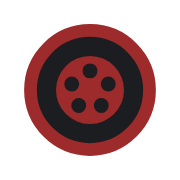
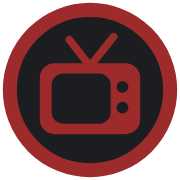
Publish 17f76a5

diff --git a/index.html b/index.html
@@ -5,20 +5,20 @@
 <meta name="viewport" content="width=device-width, initial-scale=1">
 <title>7TV Casting Office</title>
 <meta name="description" content="Design custom 7TV 2nd Edition profile cards: Stars, Co-Stars, Extras and vehicles, with Core or 80s genres.">
-<link rel="icon" type="image/png" sizes="32x32" href="assets/favicon-32.png?v=2">
-<link rel="icon" type="image/png" sizes="192x192" href="assets/favicon-192.png?v=2">
-<link rel="icon" type="image/svg+xml" href="assets/favicon.svg?v=2">
-<link rel="apple-touch-icon" href="assets/apple-touch-icon.png?v=2">
+<link rel="icon" type="image/png" sizes="32x32" href="assets/favicon-32.png?v=3">
+<link rel="icon" type="image/png" sizes="192x192" href="assets/favicon-192.png?v=3">
+<link rel="icon" type="image/svg+xml" href="assets/favicon.svg?v=3">
+<link rel="apple-touch-icon" href="assets/apple-touch-icon.png?v=3">
 <meta name="apple-mobile-web-app-title" content="Casting Office">
 <meta name="theme-color" content="#9e2b2b">
-<link rel="stylesheet" href="css/fonts.css?v=202610270420">
-<link rel="stylesheet" href="css/styles.css?v=202610270420">
+<link rel="stylesheet" href="css/fonts.css?v=202610292237">
+<link rel="stylesheet" href="css/styles.css?v=202610292237">
 <script>try { document.documentElement.dataset.theme = localStorage.getItem('seventv-theme') === 'dark' ? 'dark' : 'light'; } catch (e) { document.documentElement.dataset.theme = 'light'; }</script>
 </head>
 <body>
 <header class="topbar">
   <div class="brand">
-    <span class="brand-mark" aria-hidden="true"></span>
+    <svg class="brand-mark" viewBox="0 0 64 64" aria-hidden="true"><circle cx="32" cy="32" r="28.5" class="bm-disc"/><g transform="translate(32 33) scale(1.05)"><path d="M-7-18 0-9 8-19" class="bm-ant"/><rect x="-17" y="-10" width="34" height="24" rx="5" class="bm-tv"/><rect x="-13" y="-6.5" width="20" height="17" rx="4" class="bm-scr"/><circle cx="11" cy="-2" r="2" class="bm-scr"/><circle cx="11" cy="5" r="2" class="bm-scr"/></g></svg>
     <div>
       <h1>Casting Office</h1>
       <p>Profile cards for 7TV 2nd Edition</p>
@@ -686,28 +686,28 @@
 
 <div id="toast" class="toast" role="status" aria-live="polite"></div>
 
-<script src="js/vendor/jspdf.umd.min.js?v=202610270420"></script>
-<script src="js/data/rules.js?v=202610270420"></script>
-<script src="js/data/profiles.js?v=202610270420"></script>
-<script src="js/data/profiles-stubs.js?v=202610270420"></script>
-<script src="js/data/special-effects.js?v=202610270420"></script>
-<script src="js/data/units.js?v=202610270420"></script>
-<script src="js/data/genres-info.js?v=202610270420"></script>
-<script src="js/data/movies.js?v=202610270420"></script>
-<script src="js/data/book-index.js?v=202610270420"></script>
-<script src="js/data/episodes.js?v=202610270420"></script>
-<script src="js/data/roles.js?v=202610270420"></script>
-<script src="js/prop-render.js?v=202610270420"></script>
-<script src="js/card-render.js?v=202610270420"></script>
-<script src="js/ratings.js?v=202610270420"></script>
-<script src="js/cast-rules.js?v=202610270420"></script>
-<script src="js/card-store.js?v=202610270420"></script>
-<script src="js/print.js?v=202610270420"></script>
-<script src="js/app.js?v=202610270420"></script>
-<script src="js/props.js?v=202610270420"></script>
-<script src="js/genres.js?v=202610270420"></script>
-<script src="js/index-page.js?v=202610270420"></script>
-<script src="js/episodes-page.js?v=202610270420"></script>
-<script src="js/cast.js?v=202610270420"></script>
+<script src="js/vendor/jspdf.umd.min.js?v=202610292237"></script>
+<script src="js/data/rules.js?v=202610292237"></script>
+<script src="js/data/profiles.js?v=202610292237"></script>
+<script src="js/data/profiles-stubs.js?v=202610292237"></script>
+<script src="js/data/special-effects.js?v=202610292237"></script>
+<script src="js/data/units.js?v=202610292237"></script>
+<script src="js/data/genres-info.js?v=202610292237"></script>
+<script src="js/data/movies.js?v=202610292237"></script>
+<script src="js/data/book-index.js?v=202610292237"></script>
+<script src="js/data/episodes.js?v=202610292237"></script>
+<script src="js/data/roles.js?v=202610292237"></script>
+<script src="js/prop-render.js?v=202610292237"></script>
+<script src="js/card-render.js?v=202610292237"></script>
+<script src="js/ratings.js?v=202610292237"></script>
+<script src="js/cast-rules.js?v=202610292237"></script>
+<script src="js/card-store.js?v=202610292237"></script>
+<script src="js/print.js?v=202610292237"></script>
+<script src="js/app.js?v=202610292237"></script>
+<script src="js/props.js?v=202610292237"></script>
+<script src="js/genres.js?v=202610292237"></script>
+<script src="js/index-page.js?v=202610292237"></script>
+<script src="js/episodes-page.js?v=202610292237"></script>
+<script src="js/cast.js?v=202610292237"></script>
 </body>
 </html>

diff --git a/css/styles.css b/css/styles.css
@@ -79,11 +79,11 @@ button, input, select, textarea { font: inherit; color: inherit; }
 .brand { display: flex; align-items: center; gap: 12px; margin-right: auto; }
 .brand h1 { font-size: 40px; }
 .brand p { margin: 2px 0 0; color: var(--muted); font-size: 14px; }
-.brand-mark {
-  width: 46px; height: 46px; border-radius: 50%; flex: none;
-  background: radial-gradient(circle at 50% 50%, var(--star-band) 0 38%, transparent 39%), #1b1d20;
-  border: 4px solid var(--star-band); box-shadow: inset 0 0 0 9px #1b1d20;
-}
+.brand-mark { width: 46px; height: 46px; flex: none; }
+.brand-mark .bm-disc { fill: #1b1d20; stroke: var(--star-band); stroke-width: 5; }
+.brand-mark .bm-ant { fill: none; stroke: var(--star-band); stroke-width: 2.6; stroke-linecap: round; stroke-linejoin: round; }
+.brand-mark .bm-tv { fill: var(--star-band); }
+.brand-mark .bm-scr { fill: #1b1d20; }
 .tabs { display: flex; gap: 4px; }
 .tab { background: none; border: 0; padding: 10px 14px; cursor: pointer; color: var(--text-2); font: 600 16px var(--body); border-bottom: 3px solid transparent; white-space: nowrap; }
 /* nine tabs: below this width the tabs take their own row under the brand */
